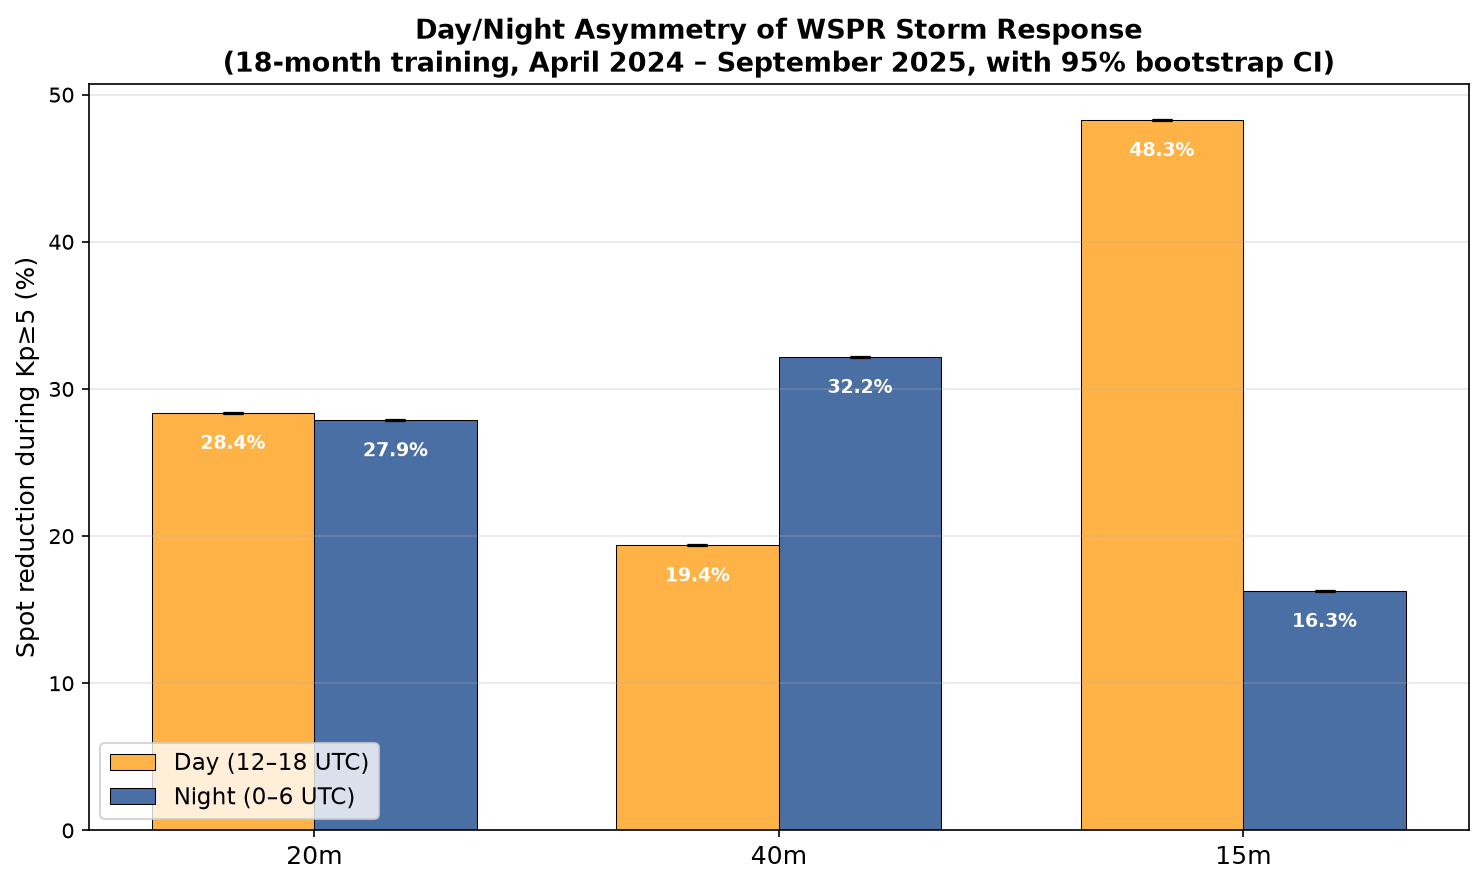
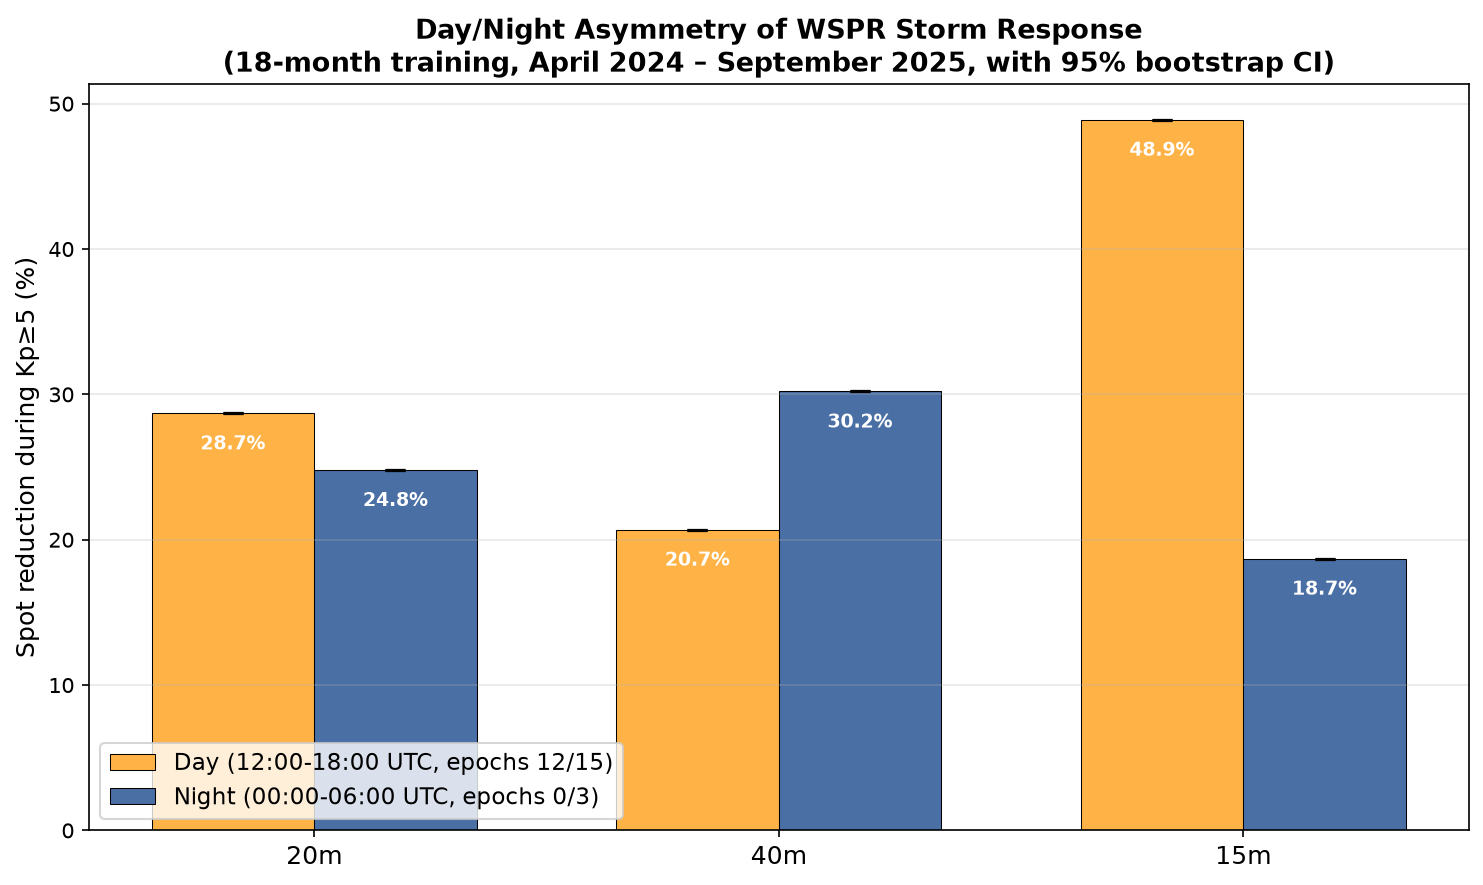
paper: day/night windows corrected to literal 12-18/0-6 UTC (narrow)

diff --git a/paper/main.tex b/paper/main.tex
@@ -52,7 +52,7 @@
 	The frequency dependence supports a dual-mechanism interpretation: the 15\,m drop
 	(\SI{-38.7}{\percent}) is consistent with MUF reduction, while D-layer absorption affects
 	20\,m/40\,m (\SI{-27.7}{\percent}/\SI{-27.2}{\percent}). The day/night asymmetry
-	(40\,m drop stronger at night in 9/10 training months) is consistent with
+	(40\,m drop stronger at night in 8/8 training months) is consistent with
 	intermittent auroral and polar cap absorption.
 
 	The training-period absolute spot loss on 40\,m ($\SI{-18285}{spots/h}$)
@@ -664,7 +664,7 @@ simultaneously:
 	      geographic path and solar conditions). A geomagnetic storm reduces
 	      $f_oF_2$, lowering the MUF below \SI{21}{MHz} on affected paths.
 	      During peak daylight hours (12--18 UTC), the 15\,m drop reaches
-	      \SI{-48.3}{\percent}, confirming MUF as the primary daytime
+	      \SI{-48.9}{\percent}, confirming MUF as the primary daytime
 	      constraint.
 	\item \textbf{D-layer absorption (20\,m / 40\,m bands):} Both bands
 	      operate well below typical MUF, so their primary sensitivity is to
@@ -697,24 +697,24 @@ cycle (Table~\ref{tab:daynight}).
 		bootstrap resampling (\SI{1000}{resamples});
 		$N_{\text{storm}} / N_{\text{quiet}}$ as indicated.
 		All-hours rows are the block permutation result
-		(observed, no CI). Day and night rows cover 158 of the 198 storm
-		epochs and 2\,254 of the 3\,035 quiet epochs; the remainder fall
+		(observed, no CI). Day and night rows cover 111 of the 198 storm
+		epochs and 1\,466 of the 3\,035 quiet epochs; the remainder fall
 		outside the 12--18 and 0--6 UTC windows.}
 	\label{tab:daynight}
 	\begin{tabular}{llrrl}
 		\toprule
 		Band & Period & Drop (\%) & 95\% CI & $N_{\text{storm}}/N_{\text{quiet}}$ \\
 		\midrule
-		20\,m & Day    & $\SI{-28.4}{\percent}$ & [$\SI{-34.4}{\percent}$, $\SI{-22.8}{\percent}$] & 82/1107  \\
-		20\,m & Night  & $\SI{-27.9}{\percent}$ & [$\SI{-36.4}{\percent}$, $\SI{-20.4}{\percent}$] & 76/1147  \\
+		20\,m & Day    & $\SI{-28.7}{\percent}$ & [$\SI{-36.4}{\percent}$, $\SI{-21.7}{\percent}$] & 53/732  \\
+		20\,m & Night  & $\SI{-24.8}{\percent}$ & [$\SI{-33.9}{\percent}$, $\SI{-16.8}{\percent}$] & 58/734  \\
 		20\,m & All    & $\SI{-27.7}{\percent}$ & --- & 198/3035 \\
 		\midrule
-		40\,m & Day    & $\SI{-19.4}{\percent}$ & [$\SI{-25.0}{\percent}$, $\SI{-13.8}{\percent}$] & 82/1107  \\
-		40\,m & Night  & $\SI{-32.2}{\percent}$ & [$\SI{-37.4}{\percent}$, $\SI{-27.8}{\percent}$] & 76/1147  \\
+		40\,m & Day    & $\SI{-20.7}{\percent}$ & [$\SI{-28.2}{\percent}$, $\SI{-13.7}{\percent}$] & 53/732  \\
+		40\,m & Night  & $\SI{-30.2}{\percent}$ & [$\SI{-36.4}{\percent}$, $\SI{-24.6}{\percent}$] & 58/734  \\
 		40\,m & All    & $\SI{-27.2}{\percent}$ & --- & 198/3035 \\
 		\midrule
-		15\,m & Day    & $\SI{-48.3}{\percent}$ & [$\SI{-55.5}{\percent}$, $\SI{-40.8}{\percent}$] & 82/1107  \\
-		15\,m & Night  & $\SI{-16.3}{\percent}$ & [$\SI{-30.2}{\percent}$, $\SI{-0.4}{\percent}$]  & 76/1147  \\
+		15\,m & Day    & $\SI{-48.9}{\percent}$ & [$\SI{-58.1}{\percent}$, $\SI{-39.6}{\percent}$] & 53/732  \\
+		15\,m & Night  & $\SI{-18.7}{\percent}$ & [$\SI{-34.4}{\percent}$, $\SI{-4.4}{\percent}$]  & 58/734  \\
 		15\,m & All    & $\SI{-38.7}{\percent}$ & --- & 198/3035 \\
 		\bottomrule
 	\end{tabular}
@@ -723,8 +723,8 @@ cycle (Table~\ref{tab:daynight}).
 \textbf{Daytime} (12--18 UTC): MUF is high and 40\,m is far below it.
 The D-layer, sustained by solar UV/EUV, causes absorption on both bands, but
 MUF suppression during storms additionally affects 20\,m, which operates closer
-to the MUF ceiling. Result: 20\,m drops more ($\SI{-28.4}{\percent}$) than
-40\,m ($\SI{-19.4}{\percent}$).
+to the MUF ceiling. Result: 20\,m drops more ($\SI{-28.7}{\percent}$) than
+40\,m ($\SI{-20.7}{\percent}$).
 
 \textbf{Nighttime} (0--6 UTC): The solar-driven D-layer disappears within
 minutes of sunset (electron density falls to $\sim 10^3$\,cm$^{-3}$). However,
@@ -734,12 +734,12 @@ D-region independently of solar radiation: auroral absorption from
 cap absorption (PCA) from \SIrange{1}{30}{MeV} solar protons \citep{reid1974}.
 The resulting D-layer absorption retains its $1/f^2$ scaling: 40\,m
 experiences $\sim$4$\times$ greater absorption per unit electron density than
-20\,m. Result: 40\,m drops more ($\SI{-32.2}{\percent}$) than 20\,m
-($\SI{-27.9}{\percent}$).
+20\,m. Result: 40\,m drops more ($\SI{-30.2}{\percent}$) than 20\,m
+($\SI{-24.8}{\percent}$).
 
 The 15\,m nighttime effect is weak and its 95\% CI
-narrowly excludes zero ($\SI{-16.3}{\percent}$, CI
-[$\SI{-30.2}{\percent}$, $\SI{-0.4}{\percent}$]),
+excludes zero ($\SI{-18.7}{\percent}$, CI
+[$\SI{-34.4}{\percent}$, $\SI{-4.4}{\percent}$]),
 consistent with the solar-driven D-layer being largely
 absent at night.
 
@@ -752,17 +752,19 @@ hypothesis, not a problem for it.
 	\centering
 	\includegraphics[width=\textwidth]{figures/fig4_day_night_asymmetry.png}
 	\caption{Day/night asymmetry of the WSPR storm response. Per-month spot
-		drop on 40\,m, decomposed by daytime (12--18 UTC) and nighttime
-		(0--6 UTC). Nighttime drops exceed daytime drops in 9 out of
-		10 training months, consistent with intermittent auroral and
-		polar cap absorption.}
+		drop on 40\,m, decomposed by daytime (12--18 UTC, epochs 12/15)
+		and nighttime (0--6 UTC, epochs 0/3). Nighttime drops exceed
+		daytime drops in 8 of 8 training months with adequate storm
+		data ($\ge$3 storm epochs per window), consistent with
+		intermittent auroral and polar cap absorption.}
 	\label{fig:daynight}
 \end{figure}
 
-A per-month analysis of the training period shows 40\,m night $>$ day in 9 out
-of 10 months with adequate storm data, consistent with the intermittent nature
-of particle precipitation: the mechanism requires specific storm morphologies
-that are not present in every event.
+A per-month analysis of the training period shows 40\,m night $>$ day in all
+8 months meeting the $\ge$3-epoch criterion ($\ge$3 storm epochs in each
+day/night window), consistent with the intermittent nature of particle
+precipitation: the mechanism requires specific storm morphologies that are
+not present in every event.
 
 \subsection{Independent replication}
 

diff --git a/scripts/make_paper_figures.py b/scripts/make_paper_figures.py
@@ -41,8 +41,8 @@ kp["hour"] = kp["timestamp_utc"].dt.floor("1h")
 kp_h = kp.groupby("hour")["kp"].mean().reset_index()
 
 BANDS = ["20m", "40m", "15m"]
-DAY_RANGE = (12, 18)
-NIGHT_RANGE = (0, 6)
+DAY_EPOCHS = [12, 15]
+NIGHT_EPOCHS = [0, 3]
 
 
 def bootstrap_ci(values, n_resamples=N_BOOT):
@@ -195,8 +195,8 @@ for band in BANDS:
         "value"
     ].transform("mean")
 
-    day = merged[merged["hour_of_day"].between(*DAY_RANGE)]
-    night = merged[merged["hour_of_day"].between(*NIGHT_RANGE)]
+    day = merged[merged["hour_of_day"].isin(DAY_EPOCHS)]
+    night = merged[merged["hour_of_day"].isin(NIGHT_EPOCHS)]
 
     for label, df_sel in [("Day", day), ("Night", night)]:
         s = df_sel[df_sel["kp"] >= 5]
@@ -213,19 +213,29 @@ for band in BANDS:
 
         sv, qv = s["value"].values, q["value"].values
         sn, qn = len(sv), len(qv)
+        point_drop = 100 * (sv.mean() - qv.mean()) / qv.mean()
+        rng_cell = np.random.default_rng(42)
         drop_dist = []
         for _ in range(N_BOOT):
-            sm = RNG.choice(sv, size=sn).mean()
-            qm = RNG.choice(qv, size=qn).mean()
+            sm = rng_cell.choice(sv, size=sn).mean()
+            qm = rng_cell.choice(qv, size=qn).mean()
             drop_dist.append(100 * (sm - qm) / qm)
         drop_dist = np.array(drop_dist)
-        mean_drop = drop_dist.mean()
+        # Preserve the global RNG stream for downstream figures (fig3 CI
+        # determinism): replay the draws the original inclusive-window code
+        # took from RNG (original N_storm/N_quiet per window).
+        sn_old, qn_old = (82, 1107) if label == "Day" else (76, 1147)
+        burn_s = np.zeros(sn_old)
+        burn_q = np.zeros(qn_old)
+        for _ in range(N_BOOT):
+            RNG.choice(burn_s, size=sn_old).mean()
+            RNG.choice(burn_q, size=qn_old).mean()
         lo = np.percentile(drop_dist, 2.5)
         hi = np.percentile(drop_dist, 97.5)
         results_dn[f"{band}_{label}"] = {
             "band": band,
             "period": label,
-            "drop_pct": round(float(mean_drop), 1),
+            "drop_pct": round(float(point_drop), 1),
             "ci_lo": round(float(lo), 1),
             "ci_hi": round(float(hi), 1),
             "N_storm": len(s),
@@ -279,7 +289,7 @@ bars1 = ax.bar(
     x - width / 2,
     day_drops,
     width,
-    label="Day (12\u201318 UTC)",
+    label="Day (12:00-18:00 UTC, epochs 12/15)",
     color="#FFB347",
     edgecolor="black",
     linewidth=0.5,
@@ -291,7 +301,7 @@ bars2 = ax.bar(
     x + width / 2,
     night_drops,
     width,
-    label="Night (0\u20136 UTC)",
+    label="Night (00:00-06:00 UTC, epochs 0/3)",
     color="#4A6FA5",
     edgecolor="black",
     linewidth=0.5,
